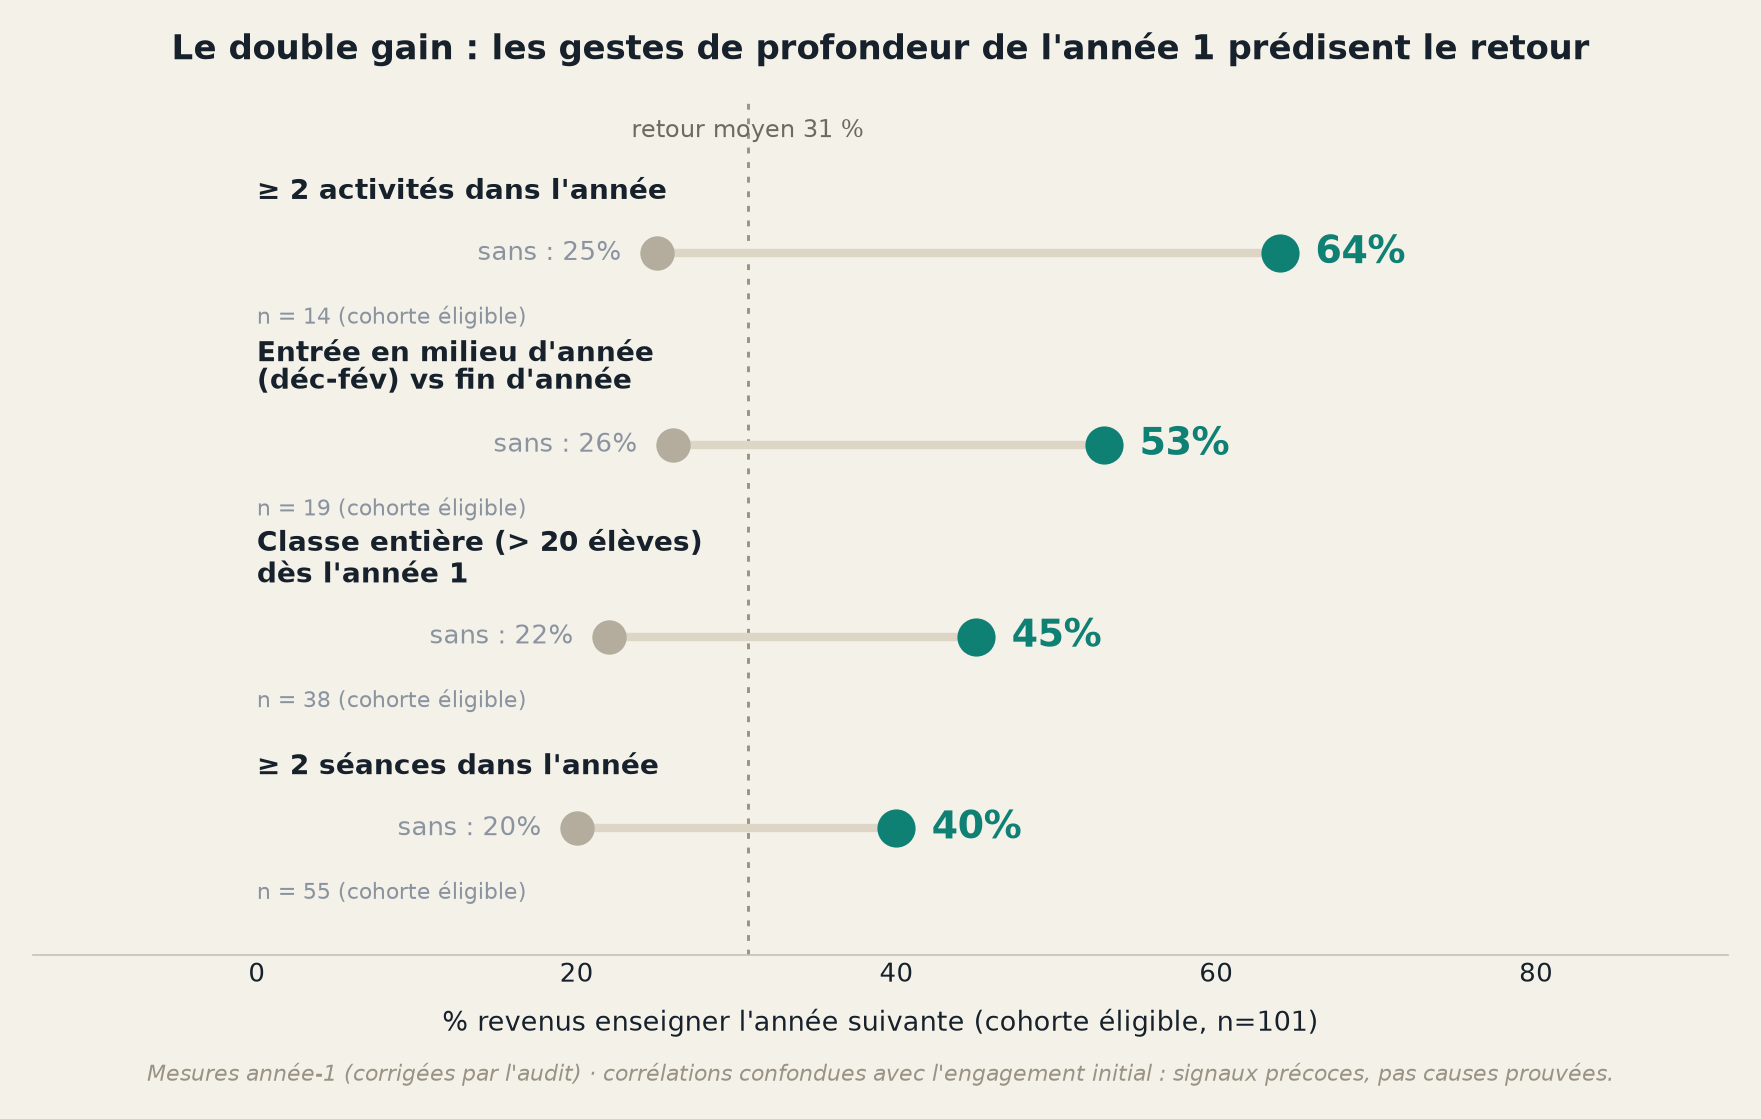
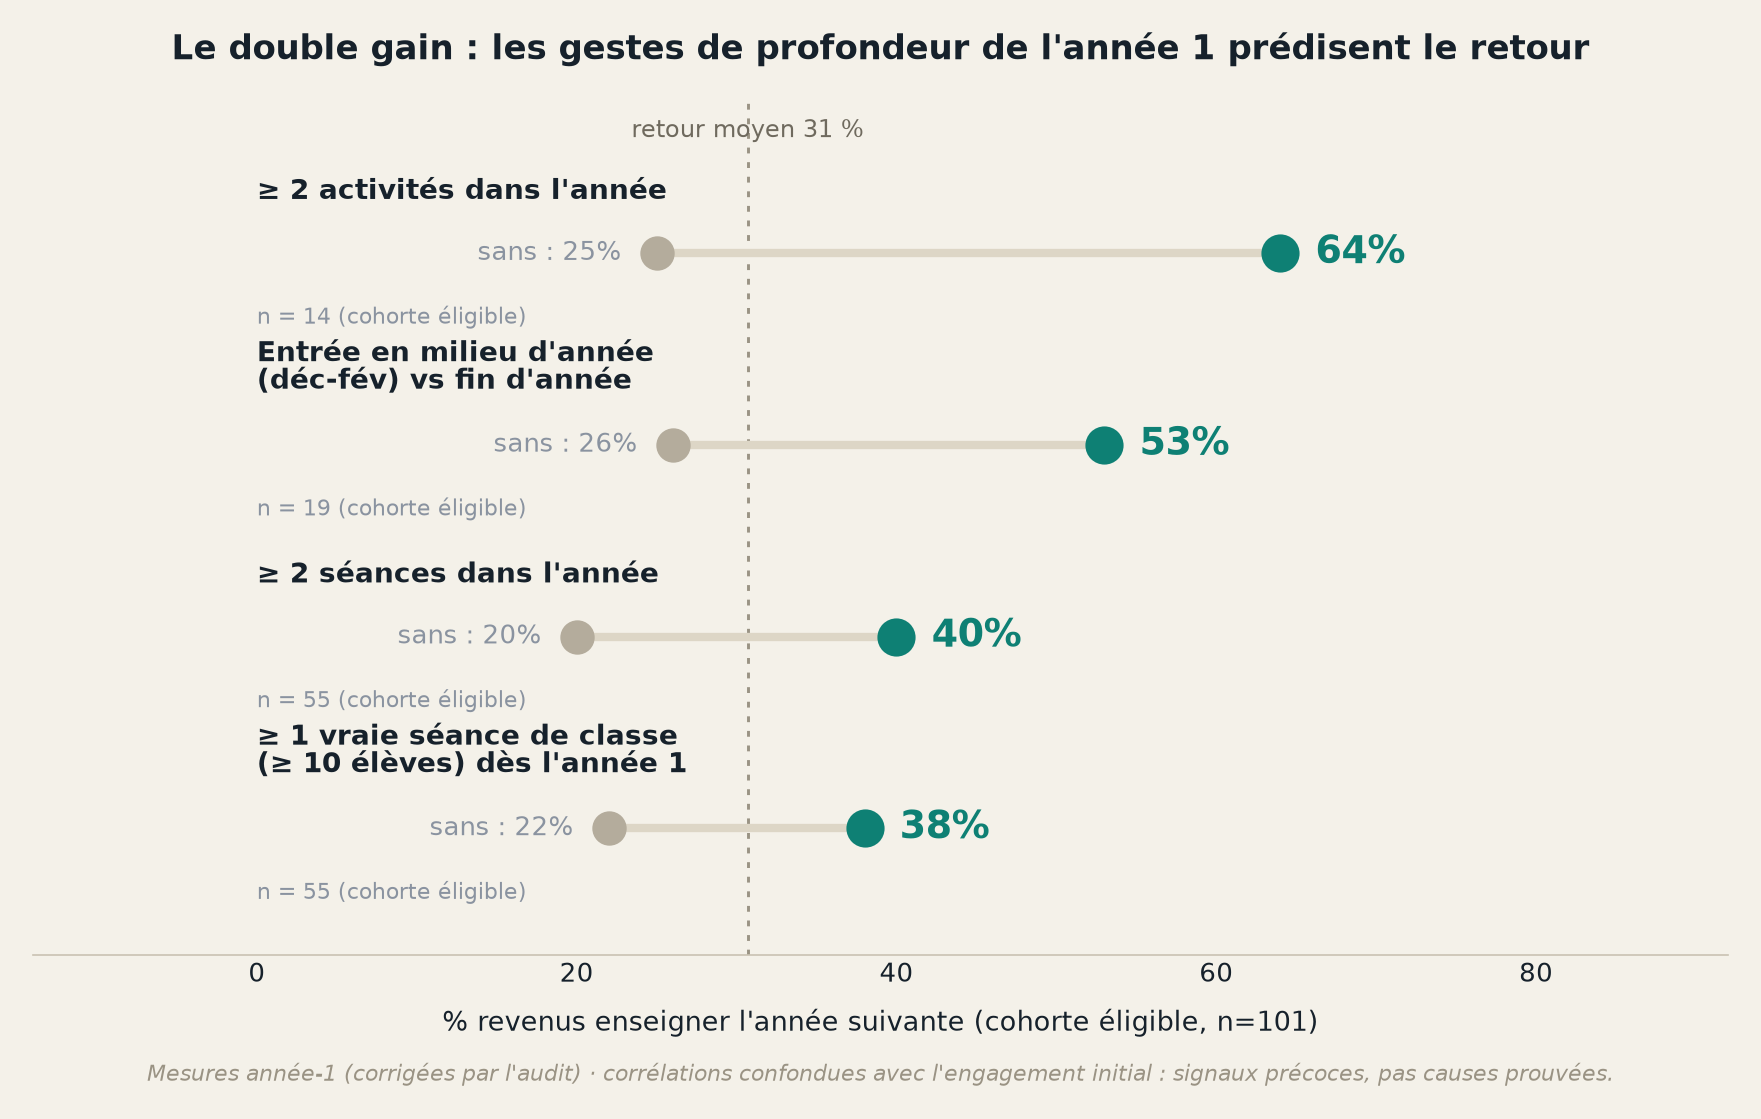
fix(enquête): intégrer les réponses de l'équipe aux 7 hypothèses d'audit
- §IV / KPI : « classe entière » = séance ≥10 élèves (seuil métier validé,
  inclut les demi-groupes). Prédicteur de portée recalculé à ce seuil :
  ≥1 séance ≥10 él → 38 % vs 22 % (n=55) ; chart syn_double_gain.png régénéré.
  « >20 » réservé au paradoxe du déployeur.
- ENS_25 (52 profs) = profs EN EXERCICE (formation francilienne ouverte non
  ciblée, non reconduite), PAS du pré-service : son 0 % est un échec de
  formation de masse, pas un artefact structurel. Pré-service réel = MEEF
  (~13, ~4 %), pas « 20 % ». Corrigé : synthèse, Volet 2 (md + dashboard).
- Délai formation→séance : figure précise restaurée (≈27 j, n=17 ; dates
  exactes dans cohorts.csv) — la fourchette « 14-37 j » venait d'un proxy.
- Classification des formations : caveat « subjective » retiré (confirmée par
  l'équipe : Calais lycée pro, Amiens, Gif, Lille = vraies ciblées).
- Volet 1 §0 : le « ~4 % » formation→classe qualifié (trompeusement bas,
  renvoi Volet 2) ; « +105 % » = lignes-usage ; « quasi nul » → « marginal ».
- Audit doc : réponses de l'équipe consignées (§C).

diff --git a/enquete_usages_2026/volet2/dashboard_volet2.html b/enquete_usages_2026/volet2/dashboard_volet2.html
@@ -149,7 +149,7 @@ footer{padding:48px 0 70px;color:var(--faint);font-family:var(--mono);font-size:
     </figure>
     <div class="callout leak reveal">
       <div class="big">9 des 26 établissements présentiels « convertis » utilisaient déjà Capytale <em>avant</em> la formation. Et 20 % de l'effort présentiel vise du pré-service (0 % d'usage possible).</div>
-      <p>Endogénéité (vraies dates de formation) : ne pas créditer le présentiel d'environ un tiers de l'usage observé. Quand l'usage suit, il vient en quelques semaines (médiane ~14-37 j selon la méthode). Les cohortes ENS_25 (52) et MEEF INSPÉ (13) — stagiaires sans classe — diluent la moyenne sans pouvoir aboutir cette année.</p>
+      <p>Endogénéité (vraies dates de formation) : ne pas créditer le présentiel d'environ un tiers de l'usage observé. Quand l'usage suit, il vient en ~27 jours (médiane, n=17). MEEF INSPÉ (13) — pré-service sans classe — ne peut pas aboutir cette année ; mais ENS_25 (52) est une formation francilienne ouverte de profs en exercice qui a échoué (0 % d'usage), à compter comme un vrai échec, pas comme du pré-service.</p>
     </div>
     <div class="callout site reveal">
       <div class="big">L'intention déclarée ne prédit pas l'usage : <b>6 intentions sur 99</b> se réalisent en classe.</div>
@@ -307,7 +307,7 @@ footer{padding:48px 0 70px;color:var(--faint);font-family:var(--mono);font-size:
     <ul class="tight recs">
       <li><b>Prioriser les formations établissement-ciblées sur les journées de masse.</b> Le facteur ~6 (59 % vs 10 % des établissements) est le levier le plus net : former 3-4 collègues d'un même établissement autour d'un projet local convertit massivement mieux qu'une journée académique dispersée où chaque prof repart seul.</li>
       <li><b>Traiter le pré-service comme un canal distinct, à horizon décalé.</b> ENS et MEEF/INSPÉ (20 % de l'effort présentiel, 0 % d'usage immédiat par construction) : les compter à part, avec un suivi à T+1 an, pas comme « présentiel raté ».</li>
-      <li><b>Déplacer le KPI de l'intention vers le passage à l'acte.</b> L'intention déclarée ne prédit rien (6/99). Suivre le délai formation → 1re séance (quelques semaines) et relancer à J+45 les profs dont l'établissement n'a rien déclenché ; rendre l'Intro à l'IA visible dans le formulaire.</li>
+      <li><b>Déplacer le KPI de l'intention vers le passage à l'acte.</b> L'intention déclarée ne prédit rien (6/99). Suivre le délai formation → 1re séance (~27 j) et relancer à J+45 les profs dont l'établissement n'a rien déclenché ; rendre l'Intro à l'IA visible dans le formulaire.</li>
       <li><b>Relancer les ~148 établissements site-only en sursis</b> à la rentrée de septembre (créneau de déploiement), avec le guide de connexion Capytale en avant (74 % de ses lecteurs cliquent aussi vers Capytale).</li>
       <li><b>Capitaliser sur la porte Capytale-directe et le réseau de pairs</b>, pas seulement le SEO : soigner la fiche catalogue Capytale, y placer un lien retour, référencer l'Intro-IA sur le site.</li>
       <li><b>Ne pas attribuer l'usage présentiel à la formation sans correction d'endogénéité</b> (9/26 succès la précèdent) ; ré-évaluer les cohortes 2026 à la rentrée ; ouvrir ou assumer de fermer la porte collège (TP calés 6e-3e, ou canal de prescription).</li>

diff --git a/enquete_usages_2026/volet1/dashboard.html b/enquete_usages_2026/volet1/dashboard.html
@@ -329,7 +329,7 @@
 
 <section>
   <div class="sechead"><span class="secnum">05</span><h2>Le moteur de la croissance 2025-2026</h2></div>
-  <p class="sub">La hausse n'est <b>pas</b> une intensification des profs en place — leur effet net est quasi nul. Elle vient d'un afflux de <b>nouveaux entrants</b>, et d'un catalogue qui mue vers le programme de seconde.</p>
+  <p class="sub">La hausse n'est <b>pas</b> une intensification des profs en place — leur effet net est marginal. Elle vient d'un afflux de <b>nouveaux entrants</b>, et d'un catalogue qui mue vers le programme de seconde.</p>
   <div class="grid2">
     <div class="card">
       <div class="chart-ttl">D'où vient le volume élèves 2025-2026</div>

diff --git a/enquete_usages_2026/commons/SYNTHESE_FINALE_2026.md b/enquete_usages_2026/commons/SYNTHESE_FINALE_2026.md
@@ -33,7 +33,7 @@ Avant de parler des goulots, fixons les **mots** — car une part de la confusio
 > **Vocabulaire des profils (côté Capytale, l'usage réel).**
 > - **Engagé** : a mis la main sur l'outil (cloné/testé ou enseigné). *401 comptes.*
 > - **A enseigné** : a donné l'activité à **ses propres élèves** (vraies lignes élèves). *224.*
-> - **Vu seulement en formation** : apparaît uniquement comme clone créé **pendant une séance de formation** (le formateur distribue, le prof clone pour suivre), sans jamais déployer à ses élèves. *≈140.* ⚠️ **Ce sont, en quasi-totalité, des profs EN EXERCICE** ayant suivi une **formation continue** — *pas* des « stagiaires ». La seule exception, le **pré-service** (étudiants INSPÉ / master MEEF / ENS), n'est identifiable que par les **libellés de formation côté site** (et l'appariement site↔Capytale est ténu) ; elle reste minoritaire.
+> - **Vu seulement en formation** : apparaît uniquement comme clone créé **pendant une séance de formation** (le formateur distribue, le prof clone pour suivre), sans jamais déployer à ses élèves. *≈140.* ⚠️ **Ce sont, en quasi-totalité, des profs EN EXERCICE** ayant suivi une **formation continue** — *pas* des « stagiaires ». La seule exception, le **pré-service** (étudiants INSPÉ / master MEEF), n'est identifiable que par les **libellés de formation côté site** (et l'appariement site↔Capytale est ténu) ; il reste minoritaire (≈ 13 comptes). ⚠️ Ne pas confondre avec la cohorte **ENS_25** (52 profs), qui n'était **pas** du pré-service mais une formation francilienne ouverte pour des **profs en exercice** (cf. §VI).
 > - **Testeur / distributeur** : a **cloné ou distribué** une activité (généré un code de partage, ou ouvert l'activité en mode prof) **sans qu'aucun élève ne s'y connecte**. *≈37.*
 
 Avec ce vocabulaire, le parcours fuit à **deux conversions** distinctes — qu'il ne faut pas confondre.
@@ -65,7 +65,7 @@ Les **modes « riches »** — précisément ceux que le pilote veut développer
 | Faire un **vrai demi-groupe** (dédoublement vérifié) | **~10 profs** (signature rare) |
 | **Revenir** l'année suivante | 31 % (cohorte éligible) |
 
-> *« Classe entière » a plusieurs seuils selon le passage (séance ≥ 10 él. ici ; > 20 él. cumulés pour le « paradoxe du déployeur » et les prédicteurs). Les seuils sont précisés à chaque usage.*
+> *Définition retenue : une « **vraie classe / séance qui compte** » = une séance d'**au moins 10 élèves** (elle inclut les demi-groupes, qui sont un mode légitime). Le seuil **> 20** (« classe complète, non dédoublée ») n'est employé que pour le « paradoxe du déployeur » (§II) ; il est alors nommé explicitement.*
 
 > **Mécanisme.** La **profondeur est la ressource rare** du dispositif. Et — point capital de mise en cohérence (cf. [Séances](RAPPORT_SEANCES_2026.md) §III, [Volet 1](../volet1/RAPPORT_ENQUETE_USAGES.md) §1.3) — beaucoup de ce qu'on prenait pour des demi-groupes (séances de ~17 élèves) sont en fait de **petites classes entières ou des groupes partiels** : le *vrai* dédoublement (deux séances complémentaires le même jour) ne se vérifie que chez une dizaine de profs. Le « demi-groupe en salle info », souvent présenté comme le mode dominant, est en réalité une **cible à construire**, pas un acquis.
 
@@ -81,8 +81,8 @@ Voici le résultat qui relie les deux moitiés de l'enquête — et qui doit org
 |---|---|
 | A enseigné **≥ 2 activités** | **64 %** (vs 25 % pour une seule) — n=14, Fisher p=0,009 |
 | Est entré **en milieu d'année** (déc-fév) plutôt qu'en fin (mars-juin) | 53 % (vs 27 %) |
-| A atteint une **classe entière** (> 20 élèves) | 45 % (vs 22 %) — p=0,03 |
 | A fait **≥ 2 séances** | 40 % (vs 20 % pour une seule) — p=0,045 |
+| A fait **≥ 1 vraie séance de classe** (≥ 10 élèves) | 38 % (vs 22 %) — n=55 |
 | **« One-shot » sans test** (le profil négatif) | **19 %** |
 
 > **⚠️ Correction (audit du 21 juin 2026).** Une version antérieure de ce tableau affichait « ≥ 2 activités → **76 %** » et « séance 45 min → **61 %** » : ces deux chiffres étaient en réalité calculés sur la **carrière entière** (pas l'année 1), donc **circulaires** (enseigner une 2ᵉ activité une année *ultérieure* suppose d'être revenu) et divergents du fichier de faits du projet. Les valeurs ci-dessus sont les mesures **année-1** propres. La « **vraie séance de 45 min** » testée comme prédicteur *année-1* n'a **pas** d'effet significatif (37 % vs 30 %, n=8) : elle est **retirée des prédicteurs** — elle reste un **mode-cible de qualité** (§III, §V), pas un signal de durée.
@@ -122,7 +122,7 @@ Trois leviers qu'on crédite spontanément de l'usage durable. Les données obli
 **La formation est un haut d'entonnoir puissant… à faible rendement, et non causal sur la durée.**
 - Elle remplit massivement le haut : 631 comptes formés. Mais le **passage en classe est modéré et très inégal** — et il faut le mesurer au **grain établissement (Volet 2)**, pas par le taux Capytale brut de ~4 % (biaisé par la récence et le grain compte). Établissements formés débouchant sur une vraie classe : **webinaire ~30 %, présentiel ~17 %** (au grain établissement ; **~23 % au grain prof** — ne pas fondre les deux), et davantage pour les **cohortes mûres** (ordre de grandeur **~46 %**, base très mince n≈42, portée par 1-2 cohortes ciblées ; jusqu'à **67 %** sur la cohorte ciblée de Lille-2024, mais n=6 établissements).
 - Ce qui distingue les formations qui aboutissent, ce n'est **pas le format** (présentiel vs webinaire) mais la **concentration** : une formation **établissement-ciblée** (plusieurs collègues d'un même lieu) fait basculer **59 % des établissements** vs **10 %** pour une journée académique de masse (1 prof dispersé) — un **facteur ~6**, alors que les deux sont du présentiel.
-- Mais — mise en cohérence essentielle (cf. [Typologie](TYPOLOGIE_PROFILS_2026.md) §III) — rien n'indique que la formation **fabrique des profs qui reviennent** : l'écart de rétention formés/non-formés (54 % vs 27 %) **n'est pas significatif** (Fisher p=0,103, sur **13 profs éligibles formés dans 8 établissements**) et est **compatible avec un pur artefact de composition** (les établissements formés contiennent déjà plus de pionniers) — mais l'échantillon est **trop faible pour exclure un effet modéré** : c'est une *absence de preuve*, pas une *preuve d'absence*. À ne pas inscrire au KPI rétention. S'ajoutent l'**endogénéité** (9 des 26 établissements présentiels à usage utilisaient déjà Capytale *avant* la formation) et le **pré-service** (ENS/MEEF, ~20 % de l'effort présentiel, **0 % d'usage par construction** — sans classe).
+- Mais — mise en cohérence essentielle (cf. [Typologie](TYPOLOGIE_PROFILS_2026.md) §III) — rien n'indique que la formation **fabrique des profs qui reviennent** : l'écart de rétention formés/non-formés (54 % vs 27 %) **n'est pas significatif** (Fisher p=0,103, sur **13 profs éligibles formés dans 8 établissements**) et est **compatible avec un pur artefact de composition** (les établissements formés contiennent déjà plus de pionniers) — mais l'échantillon est **trop faible pour exclure un effet modéré** : c'est une *absence de preuve*, pas une *preuve d'absence*. À ne pas inscrire au KPI rétention. S'ajoute l'**endogénéité** (9 des 26 établissements présentiels à usage utilisaient déjà Capytale *avant* la formation). Quant au **pré-service** au sens strict (MEEF/INSPÉ, sans classe : ≈ 13 profs, **0 % par construction**), il est minoritaire — à ne **pas** confondre avec la cohorte **ENS_25** (52 profs) : une formation **francilienne ouverte, non ciblée**, pour des **profs en exercice**, dont le **0 % d'usage** est un **échec de formation de masse** (non reconduite), pas un artefact structurel. Le « ~20 % de pré-service » d'une version antérieure agrégeait à tort ENS_25 ; le pré-service réel pèse ~4 %.
 
 **Le collectif intra-établissement ajoute des usagers, pas de la fidélité.** 80 % des établissements n'ont qu'un prof, et embarquer un collègue est précieux **pour le nombre**. Mais l'établissement multi-prof **ne retient pas mieux** (30 % vs 31 %, écart nul), et les collègues recrutés adoptent un usage **plus léger** (déploiement ponctuel) sans hériter de la fidélité du pionnier. La diffusion intra-établissement est par ailleurs plus **échelonnée** qu'il n'y paraît (au grain mois, seuls 25 % des établissements multi-profs démarrent simultanément).
 
@@ -150,7 +150,7 @@ Le pilote a deux objectifs — **plus de profs** et **un meilleur mode d'usage**
 1. **Convertir le réservoir « site-only en sursis ».** ~148 établissements ont un compte qui a cliqué vers Capytale sans classe retrouvée, et 75 % des comptes site-only datent de 2026 : ce n'est pas un cimetière, c'est un **sursis de déploiement**. Relance à la **rentrée de septembre** (le créneau de déploiement), guide de connexion Capytale en avant.
 2. **Relancer les ~62 décrocheurs** de 2024-2025 dès la rentrée (« voici la suite pour votre classe »).
 3. **Récupérer les captifs Capytale-direct** (bandeau Intro-IA → catalogue) et soigner la fiche Capytale.
-4. **Réorienter l'effort de formation** des journées de masse (10 % d'aboutissement) vers le **ciblage établissement** (59 %) ; sortir le **pré-service** du KPI immédiat (le suivre à T+1 an).
+4. **Réorienter l'effort de formation** des journées de masse (10 % d'aboutissement) vers le **ciblage établissement** (59 %) ; sortir le **pré-service strict (MEEF/INSPÉ)** du KPI immédiat (le suivre à T+1 an) — sans pour autant excuser les **formations ouvertes ratées** (type ENS_25, profs en exercice) comme du « pré-service ».
 5. **Activer la contagion** intra-établissement pour le nombre — en sachant qu'elle n'apporte pas la durée toute seule (cf. objectif B).
 
 ### Objectif B — un meilleur mode d'usage (la profondeur, qui nourrit aussi la durée)
@@ -164,7 +164,7 @@ Le fil rouge : **viser la profondeur de l'année 1 sert simultanément les deux 
 - **% des entrants de l'année qui font ≥ 2 activités** (cible : > 23 %) ;
 - **% des entrants qui font ≥ 1 vraie séance de 45 min** (classe ≥ 10 él. ; cible : > 28 %) ;
 - **rétention N+1** (cible : > 31 %) ;
-- **délai médian formation → 1ʳᵉ séance** (de l'ordre de quelques semaines ; relancer à J+45 les formés dont l'établissement n'a rien déclenché).
+- **délai médian formation → 1ʳᵉ séance** (≈ 27 j, n=17 ; relancer à J+45 les formés dont l'établissement n'a rien déclenché).
 
 ---
 

diff --git a/enquete_usages_2026/volet1/RAPPORT_ENQUETE_USAGES.md b/enquete_usages_2026/volet1/RAPPORT_ENQUETE_USAGES.md
@@ -8,19 +8,19 @@
 
 ## 0. Synthèse en une page
 
-En 2025-2026, MathAData a franchi le seuil qui sépare une **expérimentation pilote** d'un **outil diffusé nationalement**. Le volume d'usages élèves a **plus que doublé** (2 181 → 4 479, **+105 %**) *alors même que l'année scolaire n'était pas terminée* à l'extraction. Six vérités structurantes ressortent des données :
+En 2025-2026, MathAData a franchi le seuil qui sépare une **expérimentation pilote** d'un **outil diffusé nationalement**. Le volume d'usages élèves a **plus que doublé** (2 181 → 4 479, **+105 %** en lignes-usage ; ≈ +95 % en élèves distincts) — l'année scolaire étant close à la mi-juin, l'extraction du 19 juin la capte quasi intégralement. Six vérités structurantes ressortent des données :
 
 1. **C'est un outil de lycée, public, de seconde.** En usage classe, 97 % des enseignants sont en lycée, **98 % dans le public**, et l'essentiel du catalogue cible la 2nde. Le collège ne décolle pas *en classe* (≈ 5 collèges avec de vrais élèves) — même si l'**intérêt** y existe via la formation (§2).
 
-2. **L'entonnoir : beaucoup d'essais, peu de classes.** **401 enseignants** ont mis la main sur MathAData ; **224 (56 %) l'ont donné à leurs propres élèves** ; **177 ont seulement testé** — dont **140 vus uniquement en formation**. La formation remplit le haut de l'entonnoir, mais la conversion formation → classe est encore **très faible (~4 %)**.
+2. **L'entonnoir : beaucoup d'essais, peu de classes.** **401 enseignants** ont mis la main sur MathAData ; **224 (56 %) l'ont donné à leurs propres élèves** ; **177 ont seulement testé** — dont **140 vus uniquement en formation**. La formation remplit le haut de l'entonnoir ; la conversion formation → classe **mesurée ici (Capytale seul)** paraît **très faible (~4 %)** — mais ce taux est **trompeusement bas** (récence des formations, grain compte). La mesure de référence est au **grain établissement** (cf. **Volet 2** : ~17-30 % selon le type, jusqu'à 59 % en formation établissement-ciblée).
 
 3. **L'adoption en classe est directe et solitaire.** Les **deux tiers** des profs qui enseignent donnent l'activité *sans trace de test personnel préalable*, et **80 % des établissements n'ont qu'un seul professeur utilisateur**. MathAData se diffuse prof par prof, peu par contagion entre collègues.
 
-4. **La croissance est extensive, pas intensive.** **83 % des professeurs qui enseignent en 2025-2026 sont entièrement nouveaux**, et ils génèrent **74 % du volume** de l'année. L'effet net des professeurs déjà présents est quasi nul. La machine à *recruter* fonctionne ; la machine à *faire revenir* est à construire (rétention inter-annuelle de **30 %**).
+4. **La croissance est extensive, pas intensive.** **83 % des professeurs qui enseignent en 2025-2026 sont entièrement nouveaux**, et ils génèrent **74 % du volume** de l'année. L'effet net des professeurs déjà présents est **marginal** (quasi stable en volume d'usages, léger recul en élèves distincts ; n=26). La machine à *recruter* fonctionne ; la machine à *faire revenir* est à construire (rétention inter-annuelle de **30 %**).
 
 5. **Le moteur du contenu, ce sont les statistiques et la géométrie « programme ».** La croissance 2025-2026 est portée par les statistiques (+1 340 usages) et la géométrie analytique (+1 236), tandis que l'activité historique « Intro à l'IA » **recule** (−485). MathAData réussit sa mue d'un gadget « IA » vers un outil arrimé au programme de seconde.
 
-6. **Un tiers des profs entrent par Capytale, pas par le site.** 32 % des enseignants découvrent MathAData via l'ancienne activité « Intro à l'IA » (absente de mathadata.fr) et **63 n'utilisent qu'elle** — sans jamais voir le catalogue. Canal d'acquisition gratuit, mais aussi fuite à colmater.
+6. **Un tiers des profs entrent par Capytale, pas par le site.** 32 % des enseignants découvrent MathAData via l'ancienne activité « Intro à l'IA » (absente de mathadata.fr) et **63 n'utilisent qu'elle** — sans déployer d'autre activité du catalogue. Canal d'acquisition gratuit, mais aussi fuite à colmater.
 
 Le défi n'est donc pas d'attirer — c'est de **transformer l'essai** : faire revenir les professeurs d'une année sur l'autre, et faire passer un second collègue à l'acte dans les 80 % d'établissements encore mono-utilisateurs.
 
@@ -110,7 +110,7 @@ Le point de départ a été corrigé en cours d'enquête (voir §11). Dans Capyt
                  └──  37 distributeurs ayant testé sans jamais enseigner
 ```
 
-> **⚠️ Terminologie : « stagiaire » est un raccourci trompeur.** Dans ce rapport (Capytale seul), « stagiaire » désigne un compte **vu seulement en formation** (clone créé pendant une séance de formation, jamais déployé). Ce sont, **en quasi-totalité, des profs EN EXERCICE** en formation continue — *pas* des stagiaires/pré-service. Seule la minorité **pré-service** (INSPÉ/MEEF/ENS) est un vrai « stagiaire sans classe », et elle n'est identifiable que par les libellés de formation **côté site** (Volet 2). Lire « stagiaire » ci-dessous comme « vu seulement en formation ».
+> **⚠️ Terminologie : « stagiaire » est un raccourci trompeur.** Dans ce rapport (Capytale seul), « stagiaire » désigne un compte **vu seulement en formation** (clone créé pendant une séance de formation, jamais déployé). Ce sont, **en quasi-totalité, des profs EN EXERCICE** en formation continue — *pas* des stagiaires/pré-service. Seule la minorité **pré-service** (INSPÉ/MEEF) est un vrai « stagiaire sans classe », et elle n'est identifiable que par les libellés de formation **côté site** (Volet 2). Lire « stagiaire » ci-dessous comme « vu seulement en formation ».
 
 Deux enseignements forts :
 

diff --git a/enquete_usages_2026/commons/AUDIT_SYNTHESE_2026.md b/enquete_usages_2026/commons/AUDIT_SYNTHESE_2026.md
@@ -104,6 +104,15 @@ Ce que les données **ne peuvent pas trancher** et qui conditionne des conclusio
 6. **« 44 % Capytale-direct »** repose sur l'appariement UAI site↔Capytale (ténu). Combien de ces 77 établissements ont *réellement* un compte sous un autre UAI/ENT ? → *seule l'équipe peut estimer le faux-négatif.*
 7. **Canaux d'acquisition (66,7 % référencement)** : les logs bruts ne sont pas dans le dépôt → invérifiable en aval. Confirmer la fenêtre (depuis 27 nov.) et que ce n'est pas qu'un effet « visites récentes ». → *accès analytics.*
 
+> **Réponses de l'équipe (21 juin 2026) — intégrées aux livrables :**
+> 1. **« Classe entière » = séance ≥ 10 élèves** (inclut les demi-groupes, mode légitime). KPI et prédicteur §IV alignés sur ≥ 10 (le prédicteur passe à « ≥ 1 séance ≥ 10 él. → 38 % vs 22 %, n=55 ») ; le seuil « > 20 » n'est plus employé que pour le paradoxe du déployeur.
+> 2. **Pousser la 2ᵉ activité** (prédicteur solide) plutôt que la séance 45 min. ✅ reflété dans le playbook.
+> 3. **Classification des formations fiable** : Calais = formation établissement-ciblée en **lycée pro** (expérimentation déploiement LP) ; Amiens = petite formation établissement. Le caveat « classification subjective » est retiré (remplacé par « confirmée par l'équipe »).
+> 4. **ENS_25 (52 profs) = profs EN EXERCICE** — formation francilienne **ouverte, non ciblée**, peu efficace et **non reconduite** — **pas** du pré-service. Seul **MEEF (≈13)** est pré-service sans classe. Corrigé partout : le « ~20 % pré-service / 0 % par construction » devient « pré-service réel ~4 % » ; le 0 % d'ENS_25 est compté comme un **échec de formation de masse**, pas excusé.
+> 5. **Délai formation → séance** : les dates exactes sont dans `cohorts.csv` → la figure précise **≈ 27 j (médiane, n=17)** est restaurée (le « 14-37 j » de l'audit venait d'un proxy mi-mois d'un agent).
+> 6. Faux-négatifs Capytale-direct : indéterminé → le 44 % reste une **borne**.
+> 7. Canaux 66,7 % : laissé en l'état (mono-source signalé) — non bloquant.
+
 ---
 
 ## D. Corrections recommandées (par priorité)

diff --git a/enquete_usages_2026/volet2/RAPPORT_VOLET2.md b/enquete_usages_2026/volet2/RAPPORT_VOLET2.md
@@ -30,9 +30,9 @@ Quatre garde-fous conditionnent toute interprétation :
 
 - **Se former est associé à ~2,5× plus de clics vers Capytale** (formés vs non-formés) — effet réel mais mêlé de **récence**, d'**auto-sélection** et d'**endogénéité** (on forme des profs et des établissements déjà acquis).
 
-- **Ce n'est pas le format qui prédit l'aboutissement en classe, c'est la concentration.** Reclassées par *nature* et comptées au **grain établissement distinct**, les cohortes vont de **59 % (13/22 établissements)** pour une formation **établissement-ciblée** (plusieurs collègues d'un même lieu) à **10 % (13/126)** pour une formation **académique de masse** (IREM, journées, 1 prof dispersé) — un **facteur ~6**, alors que les deux sont du présentiel. Toutes les formations de masse sont quasi nulles (Narbonne 1/20, Nîmes 0/9), toutes les concentrées ont de vraies classes (Lille 2024 : 841 élèves). *Base petite (22 établissements), classification subjective → direction robuste, chiffre = ordre de grandeur. Au grain prof, l'établissement-ciblée monte à ~67 %, mais c'est surestimé (compte les collègues d'un même lycée plusieurs fois).* *(Correction v1 : « webinaire > présentiel » reposait sur 147 « anciens formés » comptés à tort comme webinaire.)*
+- **Ce n'est pas le format qui prédit l'aboutissement en classe, c'est la concentration.** Reclassées par *nature* et comptées au **grain établissement distinct**, les cohortes vont de **59 % (13/22 établissements)** pour une formation **établissement-ciblée** (plusieurs collègues d'un même lieu) à **10 % (13/126)** pour une formation **académique de masse** (IREM, journées, 1 prof dispersé) — un **facteur ~6**, alors que les deux sont du présentiel. Toutes les formations de masse sont quasi nulles (Narbonne 1/20, Nîmes 0/9), toutes les concentrées ont de vraies classes (Lille 2024 : 841 élèves). *Base petite (22 établissements) → chiffre = ordre de grandeur ; mais la classification est **confirmée par l'équipe** (Gif, Lille 2024, Calais lycée pro, Amiens sont de vraies formations établissement-ciblées) → direction robuste. Au grain prof, l'établissement-ciblée monte à ~67 %, mais c'est surestimé (compte les collègues d'un même lycée plusieurs fois).* *(Correction v1 : « webinaire > présentiel » reposait sur 147 « anciens formés » comptés à tort comme webinaire.)*
 
-- **Un cinquième de l'effort présentiel vise un public qui ne peut pas aboutir cette année.** **74 des 363 profs présentiels (20 %)** sont des **pré-service** (ENS_25 52 profs, MEEF INSPÉ 13) : sans classe ni élèves, **0 % d'usage** possible. À traiter comme canal à horizon décalé, pas comme « présentiel raté ».
+- **Le pré-service strict est minoritaire — et il ne faut pas y agréger les formations ouvertes ratées.** Le **pré-service** au sens strict — **MEEF INSPÉ Paris (13 profs)** — est sans classe ni élèves (**0 % d'usage par construction**) : canal à horizon décalé, pas « présentiel raté ». ⚠️ En revanche la grosse cohorte **ENS_25 (52 profs)** n'en est **pas** : c'était une **formation francilienne ouverte, non ciblée**, pour des **profs en exercice** ; son **0 % d'usage** est un vrai **échec de formation de masse** (non reconduite), à compter comme tel. Le pré-service réel pèse donc ~4 % de l'effort présentiel (≈13/363), pas 20 %.
 
 - **L'endogénéité reste une limite causale forte.** Avec les vraies dates de formation : sur 26 établissements présentiels à usage élève, **9 utilisaient déjà Capytale *avant*** la formation. Quand l'usage suit, il vient en **~27 jours** (médiane). Ne pas créditer le présentiel d'environ un tiers de l'usage observé.
 
@@ -111,7 +111,7 @@ L'écart est d'un **facteur ~6** (59 % vs 10 %), alors que établissement-ciblé
 
 > **À manier avec prudence.** (1) Le **grain compte** : au niveau prof, l'établissement-ciblée monte à ~67 % (Gif : 13 profs mais 3 établissements) — surestimé ; le **59 % (13/22) au grain établissement** est plus juste. (2) **Base petite** : 22 établissements seulement pour l'établissement-ciblée. (3) **Classification subjective** (mots-clés ; Calais-LP = 8 LP dispersés, plutôt « réseau »). (4) **Déclaration d'UAI faible** dans 2 cohortes (Lille 6/40 profs, Amiens 1/19) → le taux y repose sur une poignée. La **direction** (concentré ≫ dispersé) est robuste ; le chiffre exact est un **ordre de grandeur sur petite base**.
 
-**Un cinquième de l'effort présentiel vise un public qui ne peut pas aboutir cette année : le pré-service.** **74 des 363 profs présentiels (20 %)** sont des stagiaires. Les deux grosses cohortes pré-service — **ENS_25 (52 profs)** et **MEEF INSPÉ Paris (13)** — totalisent 65 stagiaires, ~5 établissements distincts et **0 % d'usage classe** : sans classe en responsabilité ni élèves, elles ne *peuvent* pas produire d'usage. Les compter comme « présentiel raté » est une erreur d'attribution — c'est un canal de diffusion à horizon décalé, pas d'usage immédiat. *(Nuance : une 3ᵉ cohorte INSPÉ « continue » convertit, elle, à 100 % sur 2 établissements ; le 0 % strict ne vaut que pour ENS + MEEF.)*
+**Distinguer le pré-service (sans classe) des formations ouvertes ratées.** Le **pré-service au sens strict — MEEF INSPÉ Paris (13 profs)** — est sans classe en responsabilité ni élèves : il ne *peut* pas produire d'usage (**0 % par construction**), et le compter comme « présentiel raté » serait une erreur d'attribution (canal à horizon décalé). ⚠️ **La grosse cohorte ENS_25 (52 profs) n'est PAS du pré-service** : c'était une **formation francilienne ouverte, non ciblée**, suivie par des **profs en exercice** ; son **0 % d'usage** est un véritable **échec de formation de masse** (non reconduite), à compter comme tel et non excusé. Le pré-service réel pèse donc ~4 % de l'effort présentiel (≈13/363), pas 20 %. *(Une 3ᵉ cohorte INSPÉ « continue » convertit, elle, à 100 % sur 2 établissements.)*
 
 **La maturité ne sauve pas les cohortes faibles.** Contre-intuitivement, les deux meilleures cohortes (Gif 32 j, Arpajon 39 j de recul) sont parmi les **plus récentes**, tandis que des cohortes mûres restent basses (Narbonne 88 j → 4 %, St-Brieuc 156 j → 12 %). Cohortes ≥ 60 j : ~20-23 % ; < 60 j : ~30-34 %. Ce n'est ni le format ni le temps écoulé qui prédit l'usage — c'est la nature.
 
@@ -232,7 +232,7 @@ Profil-type du prof qui va au bout : un **clic ressource suivi d'un clic Capytal
 - **Deux grains à ne pas confondre.** L'effet formation par *type* (§3, tableau du haut) est au **grain prof** (chaque prof formé = une unité). La typologie par *nature* est au **grain établissement distinct** (sinon plusieurs collègues d'un même lycée gonflent le taux : établissement-ciblée 67 % au grain prof → **59 % au grain établissement**). La **base** de l'établissement-ciblée est petite (22 établissements) et 2 cohortes déclarent peu d'UAI (Lille 6/40, Amiens 1/19). Hiérarchie et facteur (~6) robustes ; chiffres = ordres de grandeur.
 - **Typologie « nature » subjective.** Établissement-ciblée vs académique-de-masse repose sur une règle (mots-clés + ratio profs/UAI) ; des cas borderline portent une part du facteur → **ordre de grandeur robuste**, pas chiffre exact.
 - **Redemptions limitées à 2026 ; intention récente.** Les 239 validations datent toutes du ≥ 15/01/2026 et visent souvent un usage à venir : le 6/99 d'intentions réalisées est plombé par la récence, pas un taux d'échec définitif. Effectifs minces (29 déclarants, 3 réalisateurs).
-- **Endogénéité des formations.** On forme des acquis (9/26 établissements présentiel à usage utilisaient déjà Capytale avant). Aucun chiffre n'est un effet causal net ; tout écart mêle causalité, auto-sélection et récence. Le pré-service (ENS/MEEF, 0 % d'usage par construction) ne doit pas être lu comme un échec.
+- **Endogénéité des formations.** On forme des acquis (9/26 établissements présentiel à usage utilisaient déjà Capytale avant). Aucun chiffre n'est un effet causal net ; tout écart mêle causalité, auto-sélection et récence. Le pré-service strict (MEEF/INSPÉ, 0 % par construction) ne doit pas être lu comme un échec ; en revanche la cohorte ENS_25 (52, profs en exercice, formation ouverte non reconduite) en est un.
 - **Funnel : ne pas double-compter.** 188 des 631 formés sont newsletter-only : formés = 23 % du total, 26 % des comptes complets ; ne pas enchaîner 1 712 → 631.
 - **Deux portes, deux définitions d'empreinte.** Capytale-direct (77, grain `uai_teach`, borne haute 166) ; site-only (509, empreinte `uai_teach`∪`uai_el`). Comparabilité à manier avec prudence.
 - **`clicked_capytale = 337`** dépend de la définition (rss `/web/b/` ; events `resourceType=capytale` = 306 ; union 360). Tous les taux restent dans ~19-21 %.

diff --git a/enquete_usages_2026/commons/TYPOLOGIE_PROFILS_2026.md b/enquete_usages_2026/commons/TYPOLOGIE_PROFILS_2026.md
@@ -53,7 +53,7 @@ Le clustering sépare nettement les 224 enseignants en cinq archétypes, sur les
 
 Sur 401 comptes engagés (côté Capytale) : **224 ont enseigné**, **≈140 ne sont vus qu'en formation** (clones créés pendant une séance, jamais déployés), **≈37 ont testé/distribué** une activité sans qu'aucun élève ne s'y connecte.
 
-> **⚠️ Vocabulaire — pas des « stagiaires ».** Les ≈140 « vus seulement en formation » sont, en quasi-totalité, des **profs en exercice** ayant suivi une **formation continue** — *pas* des stagiaires/pré-service. La seule exception, le pré-service (INSPÉ/MEEF/ENS), n'est repérable que par les **libellés de formation côté site** (Volet 2), pas côté Capytale, et reste minoritaire.
+> **⚠️ Vocabulaire — pas des « stagiaires ».** Les ≈140 « vus seulement en formation » sont, en quasi-totalité, des **profs en exercice** ayant suivi une **formation continue** — *pas* des stagiaires/pré-service. La seule exception, le pré-service (INSPÉ/MEEF), n'est repérable que par les **libellés de formation côté site** (Volet 2), pas côté Capytale, et reste minoritaire.
 
 Le constat utile n'est donc pas « il y a un filtre définitionnel », mais :
 - **Les profs qui découvrent l'outil seuls** (sans formation : Capytale-direct, organique) **déploient très majoritairement** — atteindre la classe n'est pas dur en soi.